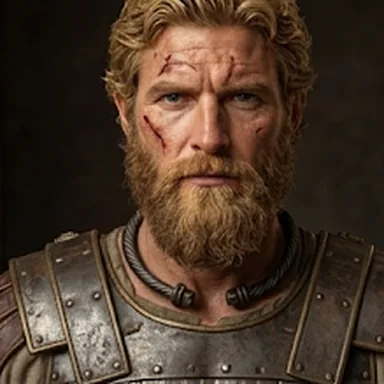
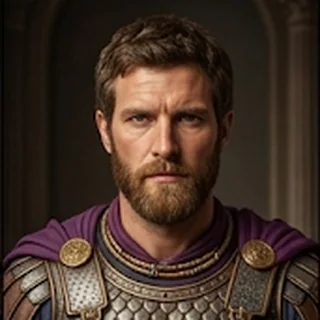
軍司令官に専用の肖像を与え、冠つきの絵を族長へ移す
頂いた6列×3行のシートを割り当てた。

| 列・行 | 割り当て |
|---|---|
| 1〜3列（2行） | 軍司令官。無冠のローマ軍人 若年2・壮年2・老年2 |
| 4〜6列（2行） | 東ローマ皇帝 若年1・壮年3・老年2 |
| 3行目（6列） | 皇后（東ローマ）壮年4・老年2 |

あわせて、蛮族シートの Warlord 列から充てていた軍司令官の3枚を
族長へ移した。老年の絵が冠を被っており、マギステル・ミリトゥムには
そぐわないと報告していたもの。無冠のローマ軍人が揃ったので入れ替える。

これで各役の枚数は次のとおり（合計112枚）。
軍司令官 6 / 族長 14 / 東ローマ皇帝 12 / ペルシア王 6 /
皇帝 33 / 皇后 41。前回不足として挙げた3点のうち、
軍司令官（3→6、うち冠つき0）と東ローマの皇后の老年（2→4）が解消した。

将軍の年代の割り当ても直した。在職年数だけで決めていたため
若年の絵が一度も出なかった。在職16年以上を老将とし、それ以外は
軍事能力で分ける（5以下=若年 / 7以下=壮年 / 8以上=老年）。

肖像を選ぶ hash に撹拌を足した。FNV だけでは似た文字列の hash が
近い値になり、候補数で割った余りが偏る。8勢力の族長が5種類の絵に
固まっていたのが7種類に散った（若年帯が2枚に2勢力なので1組は残る）。

manifest と実ファイルの一致を確認済み。ブラウザで12枚すべて読み込み、
404もJSエラーもなし。

Claude-Session: https://claude.ai/code/session_01MtfQn3LEdmZoG6v8BdmShd

diff --git a/src/ui/components/CourtFigures.tsx b/src/ui/components/CourtFigures.tsx
@@ -33,7 +33,7 @@ export function CourtFigures({ state }: { state: GameState }) {
           <Figure
             role="general"
             origin="roman"
-            age={termAge(state.year - general.appointedYear)}
+            age={termAge(state.year - general.appointedYear, general.military)}
             seedId={general.id}
             title="軍司令官"
             name={generalName(general.id)}
@@ -102,11 +102,16 @@ export function CourtFigures({ state }: { state: GameState }) {
 }
 
 /**
- * 在職が長い将軍ほど老いた肖像にする。将軍は年齢を持たないので在職年数で代える。
- * 任命された年から若者の顔になるのは将にそぐわないので、壮年から始める
+ * 将軍の肖像に使う年代。将軍は年齢を持たないので、在職年数と軍事能力で代える。
+ *
+ * 長く在職した将軍は老将になる。それ以外は能力で分け、
+ * 練達しているほど老いた顔にする。3つの帯すべてを使うための割り当てで、
+ * 在職年数だけで決めていたときは若年の絵が一度も出なかった
  */
-function termAge(years: number): 'youth' | 'adult' | 'elder' {
-  return years < 16 ? 'adult' : 'elder';
+function termAge(years: number, military: number): 'youth' | 'adult' | 'elder' {
+  if (years >= 16) return 'elder';
+  if (military <= 5) return 'youth';
+  return military <= 7 ? 'adult' : 'elder';
 }
 
 /**

diff --git a/src/ui/portraitAssets.ts b/src/ui/portraitAssets.ts
@@ -81,6 +81,14 @@ function hashString(value: string): number {
     hash ^= value.charCodeAt(i);
     hash = Math.imul(hash, 16777619);
   }
+  /*
+   * 撹拌して下位ビットを散らす。FNV だけだと似た文字列の hash が
+   * 近い値になり、候補数で割った余りが偏る。実際、勢力 id と族長名から
+   * 引いた8勢力の族長が5種類の絵に固まっていた
+   */
+  hash ^= hash >>> 15;
+  hash = Math.imul(hash, 2246822507);
+  hash ^= hash >>> 13;
   return hash >>> 0;
 }
 
